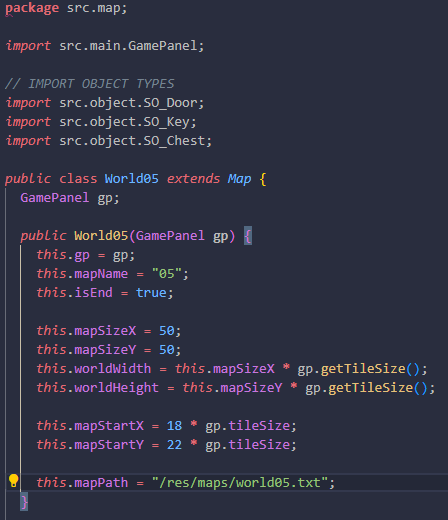
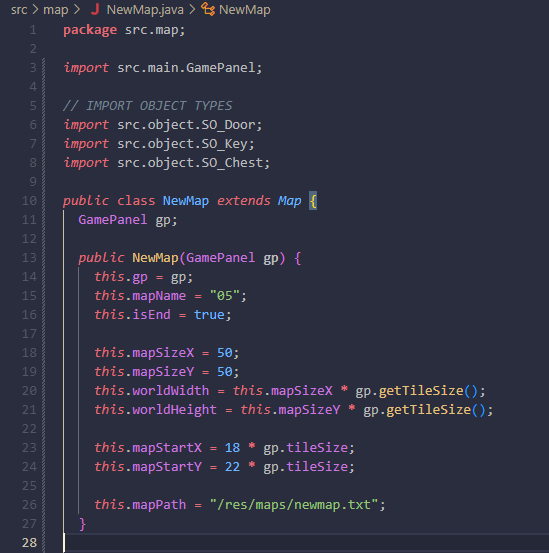
new create map image

Changed region(s): [[0.0, 0.0, 0.9688, 1.0]]

diff --git a/src/map/NewMap.java b/src/map/NewMap.java
@@ -1,5 +1,113 @@
 package src.map;
 
-public class NewMap {
+import src.main.GamePanel;
+
+// IMPORT OBJECT TYPES
+import src.object.SO_Door;
+import src.object.SO_Key;
+import src.object.SO_Chest;
+
+public class NewMap extends Map {
+  GamePanel gp;
   
+  public NewMap(GamePanel gp) {
+    this.gp = gp;
+    this.mapName = "05";
+    this.isEnd = true;
+
+    this.mapSizeX = 50;
+    this.mapSizeY = 50;
+    this.worldWidth = this.mapSizeX * gp.getTileSize();
+    this.worldHeight = this.mapSizeY * gp.getTileSize();
+
+    this.mapStartX = 18 * gp.tileSize;
+    this.mapStartY = 22 * gp.tileSize;
+
+    this.mapPath = "/res/maps/newmap.txt";
+  }
+
+  // PLACE OBJECTS
+  @Override
+  public void setObject() {
+    gp.currentMap.object[12] = new SO_Door(2);
+    gp.currentMap.object[12].setXY(6 * gp.tileSize, 28 * gp.tileSize);
+    gp.currentMap.object[12].isOpen = false;
+
+    gp.currentMap.object[13] = new SO_Door(2);
+    gp.currentMap.object[13].setXY(6 * gp.tileSize, 35 * gp.tileSize);
+    gp.currentMap.object[13].isOpen = false;
+
+    gp.currentMap.object[14] = new SO_Door(999);
+    gp.currentMap.object[14].setXY(21 * gp.tileSize, 22 * gp.tileSize);
+    gp.currentMap.object[14].isOpen = false;
+
+    gp.currentMap.object[15] = new SO_Door(999);
+    gp.currentMap.object[15].setXY(26 * gp.tileSize, 11 * gp.tileSize);
+    gp.currentMap.object[15].isOpen = false;
+
+    gp.currentMap.object[16] = new SO_Door(999);
+    gp.currentMap.object[16].setXY(6 * gp.tileSize, 17 * gp.tileSize);
+    gp.currentMap.object[16].isOpen = false;
+
+    gp.currentMap.object[17] = new SO_Door(0);
+    gp.currentMap.object[17].setXY(6 * gp.tileSize, 9 * gp.tileSize);
+    gp.currentMap.object[17].isOpen = false;
+
+    gp.currentMap.object[18] = new SO_Door(1);
+    gp.currentMap.object[18].setXY(9 * gp.tileSize, 6 * gp.tileSize);
+    gp.currentMap.object[18].isOpen = false;
+
+    gp.currentMap.object[19] = new SO_Door(1);
+    gp.currentMap.object[19].setXY(43 * gp.tileSize, 15 * gp.tileSize);
+    gp.currentMap.object[19].isOpen = false;
+
+    gp.currentMap.object[111] = new SO_Door(1);
+    gp.currentMap.object[111].setXY(31 * gp.tileSize, 6 * gp.tileSize);
+    gp.currentMap.object[111].isOpen = false;
+
+    gp.currentMap.object[112] = new SO_Door(2);
+    gp.currentMap.object[112].setXY(44 * gp.tileSize, 22 * gp.tileSize);
+    gp.currentMap.object[112].isOpen = false;
+
+    gp.currentMap.object[113] = new SO_Door(999);
+    gp.currentMap.object[113].setXY(39 * gp.tileSize, 19 * gp.tileSize);
+    gp.currentMap.object[113].isOpen = false;
+
+    gp.currentMap.object[2] = new SO_Key(0); 
+    gp.currentMap.object[2].setXY(14* gp.tileSize, 2 * gp.tileSize);
+    
+    gp.currentMap.object[21] = new SO_Key(1);
+    gp.currentMap.object[21].setXY(6 * gp.tileSize, 6 * gp.tileSize);
+
+    gp.currentMap.object[22] = new SO_Key(2);
+    gp.currentMap.object[22].setXY(42 * gp.tileSize, 5 * gp.tileSize);
+
+    gp.currentMap.object[23] = new SO_Key(3);
+    gp.currentMap.object[23].setXY(46 * gp.tileSize, 16 * gp.tileSize);
+
+    gp.currentMap.object[4] = new SO_Chest();
+    gp.currentMap.object[4].setXY(6 * gp.tileSize, 45 * gp.tileSize);
+    gp.currentMap.object[4].isOpen = false;
+
+    // Object index standardization (For larger maps)
+    // 2 - Key
+    // 1 - Door
+    // 4 - Chest
+    // The numbers that follow represent which key, door, chest, etc that the object is.
+    // In this file I ordered them by their first numbers (1, 2, 4).
+  } 
+
+  // Level Loading
+  public void nextLevel() {
+    gp.reloadMap(gp.World01);
+    gp.setPlayerPosition();
+    gp.setObjects();
+  }
+
+  // Reset the Game
+  public void resetGame() {
+    gp.reloadMap(gp.World01);
+    gp.setPlayerPosition();
+    gp.setObjects();
+  }
 }
